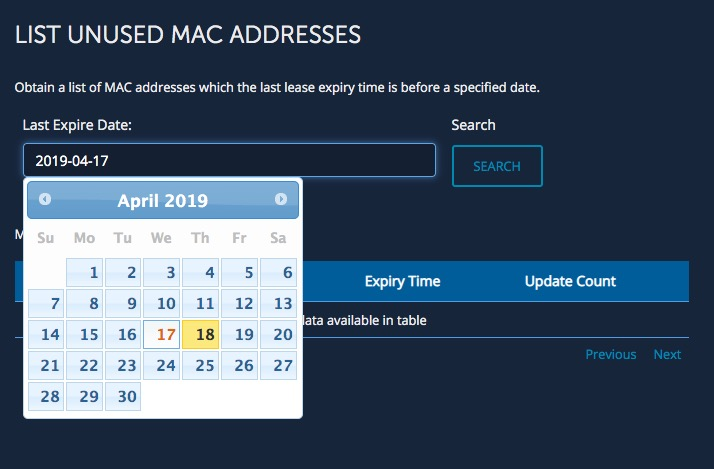
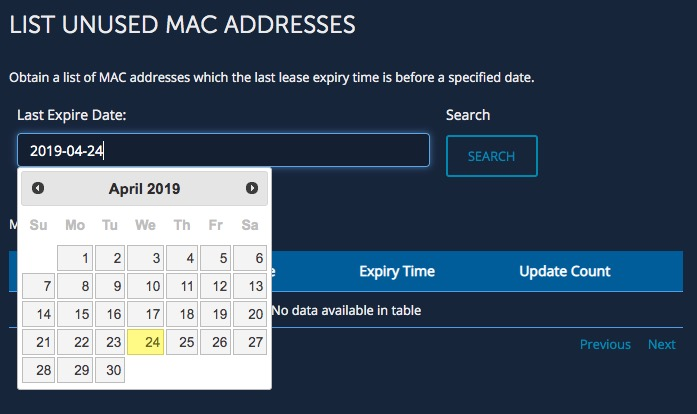
Revised code on CSS files and revised README.md file

Changed region(s): [[0.0, 0.2319, 0.9943, 0.9565], [0.0, 0.029, 0.5122, 0.1159], [0.0, 0.1739, 0.7834, 0.2029]]

diff --git a/Community/query_unused_mac_address/css/query_unused_mac_address_page.css b/Community/query_unused_mac_address/css/query_unused_mac_address_page.css
@@ -19,7 +19,7 @@ Description: Query Unused MAC Address CSS */
 
 /* Custom styles for your page go in here. */
 
-@import url("/static/js/vendor/jquery-ui/jquery-ui.min.redmond.css"); 
+@import url("/static/js/vendor/jquery-ui/jquery-ui.min.css"); 
 table.dataTable thead tr {
     color: #FCFCFC;
     background-color: #0068A4;

diff --git a/Community/register_mac_address/css/register_mac_address_page.css b/Community/register_mac_address/css/register_mac_address_page.css
@@ -19,4 +19,4 @@ Description:  */
 
 /* Custom styles for your page go in here. */
 
-@import url("/js/vendor/jquery-ui/jquery-ui.min.redmond.css"); 
+@import url("/js/vendor/jquery-ui/jquery-ui.min.css"); 

diff --git a/Community/query_unused_mac_address/README.md b/Community/query_unused_mac_address/README.md
@@ -5,11 +5,7 @@ This workflow will obtain a list of MAC addresses which the last lease expiry ti
 1. **BAM Default Configuration**  
 This workflow will be using the default configuration value in `/portal/bluecat_portal/config.py` in BlueCat Gateway container.  To set the default configuration, in BlueCat Gateway, go to Administration > Configurations > General Configuration.  
 In General Configuration, select the BAM Settings tab and enter the configuration name under "Default Configuration:" and save.  
-![screenshot](img/BAM_default_settings.jpg?raw=true "BAM_default_settings")
-
-2. **jquery redmond theme and images**  
-This workflow requires the jquery redmond theme CSS and images.  
-Copy all files under the directory `/query_unused_mac_address/additional/jquery-ui` to `/portal/static/js/vendor/jquery-ui` inside the Bluecat Gateway container.
+![screenshot](img/BAM_default_settings.jpg?raw=true "BAM_default_settings")  
 
 ## Usage  
 

diff --git a/Community/register_mac_address/README.md b/Community/register_mac_address/README.md
@@ -47,9 +47,6 @@ This workflow requires the following tag groups / tags.
 6. **Tag Object**  
 Tag the predefined network and MAC pool which was created in 3 and 4 to the tag created in 5.  
 
-7. **jquery redmond theme and images**  
-This workflow requires the jquery redmond theme CSS and images.  
-Copy all files under the directory `additional/jquery-ui` to `/portal/static/js/vendor/jquery-ui` inside the Bluecat Gateway container.
 
 ## Usage   
 
